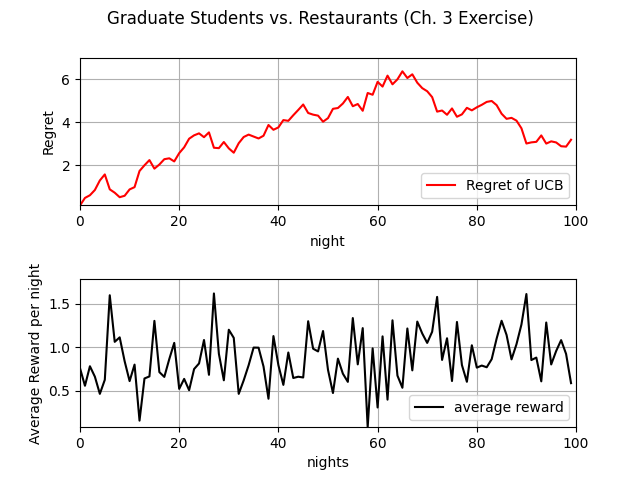
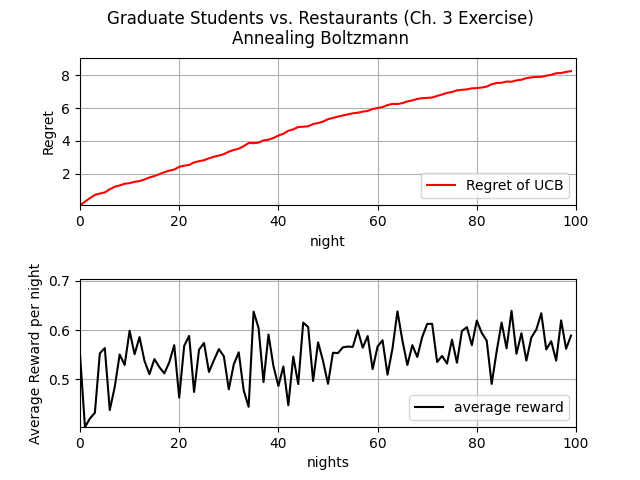
Fixed scatter/average reward plots

diff --git a/restaurant.py b/restaurant.py
@@ -24,10 +24,10 @@ def argmax(arr):
     return arr.index(max(arr))
 
 
-def plot_regret(X, Y, cumulative_optimal_reward, cumulative_reward, average_reward_in_each_round, T, max_regret,
-                min_regret, max_avg_reward, min_avg_reward):
+def plot_regret(X, Y, cumulative_optimal_reward, cumulative_reward, average_reward_in_each_round_1D, T, max_regret,
+                min_regret, max_avg_reward, min_avg_reward, algo_name):
     fig, axs = plt.subplots(2)  # get two figures, top is regret, bottom is average reward in each round
-    fig.suptitle('Graduate Students vs. Restaurants (Ch. 3 Exercise)')
+    fig.suptitle(f'Graduate Students vs. Restaurants (Ch. 3 Exercise)\n{algo_name}')
     fig.subplots_adjust(hspace=0.5)
 
     axs[0].plot(X, Y, color='red', label='Regret of UCB')
@@ -37,7 +37,7 @@ def plot_regret(X, Y, cumulative_optimal_reward, cumulative_reward, average_rewa
     axs[0].set_xlim(0, T)
 
     axs[0].set_ylim(min_regret, 1.1*max_regret)
-    axs[1].plot(X, average_reward_in_each_round, color='black', label='average reward')
+    axs[1].plot(X, average_reward_in_each_round_1D, color='black', label='average reward')
 
     axs[1].set(xlabel='nights', ylabel='Average Reward per night')
     axs[1].grid(True)
@@ -49,29 +49,37 @@ def plot_regret(X, Y, cumulative_optimal_reward, cumulative_reward, average_rewa
     print("Thank you and good-bye.")
 
 
-def plot_graph(timesteps, arms, algorithms, algorithm_rewards, algorithm_cum_rewards, algorithm_arm_selections, max_mu,
-               max_cum_reward):
+def plot_graph(timesteps, arms, algorithms, average_reward_in_each_round, average_cum_rewards, algorithm_arm_selections,
+               algorithm_average_arm_selections, max_mu, max_cum_reward, N, T):
     """Plot a 3-row k-column graph with rolling average, cumulative reward and arm selection scatter plot."""
+
     num_of_algo = len(algorithms)
 
     plt.figure(figsize=(15, 10))
-    for i, algo in enumerate(algorithms):
-        plt.subplot(3, num_of_algo, i + 1)
-        plt.plot(algorithm_rewards[i], label='Average rewards', color='palevioletred', alpha=0.8)
+    for j, algo in enumerate(algorithms):
+        plt.subplot(3, num_of_algo, j + 1)
+        plt.plot(average_reward_in_each_round[j], label='Average rewards', color='palevioletred', alpha=0.8)
         plt.xlabel('Time-step t', fontsize=12)
         plt.ylabel(f'Avg. reward for {algo.get_name()}', fontsize=12)
         plt.title(f"{algo.get_name()}\nRolling Average Reward", fontsize=13)
         plt.axis([0, timesteps, 0, max_mu + 0.1])
 
-        plt.subplot(3, num_of_algo, i + 1 + num_of_algo)
-        plt.plot(algorithm_cum_rewards[i], label='Cumulative reward', color='orange', alpha=0.8)
+        plt.subplot(3, num_of_algo, j + 1 + num_of_algo)
+        # TODO: As average_cum_rewards is not correct, graph values are not increasing
+        plt.plot(average_cum_rewards[j], label='Cumulative reward', color='orange', alpha=0.8)
         plt.xlabel('Time-step t', fontsize=12)
         plt.ylabel(f'Cum. reward for {algo.get_name()}', fontsize=12)
         plt.title(f"Cumulative Reward", fontsize=13)
         plt.axis([0, timesteps, 0, max_cum_reward])
 
-        plt.subplot(3, num_of_algo, i + 1 + 2*num_of_algo)
-        plt.scatter(range(timesteps), algorithm_arm_selections[i], s=2.5, color='salmon', alpha=.9)
+        plt.subplot(3, num_of_algo, j + 1 + 2*num_of_algo)
+        # DONE: Plot scatter plot with transparency (using algorithm_average_arm_selections,
+        # which is length T array composed of smaller length N (no. of arms) arrays that sum up to 1.0)
+
+        cm = plt.cm.get_cmap('YlOrBr')
+        for n in range(N):
+            plt.scatter(range(timesteps), [n + 1]*T, s=2.5, c=algorithm_average_arm_selections[j][n], alpha=.3, cmap=cm)
+
         plt.axis([0, timesteps, 0, len(arms) + 1])
         plt.xlabel('Time-step t', fontsize=12)
         plt.ylabel(f'{algo.get_name()}\'s arm selection', fontsize=12)
@@ -140,31 +148,32 @@ def main():
     algo_exp3 = Exp3(.2, n_arms)
     algo_thompson = ThompsonSampling(n_arms)
 
-    algorithms = [algo_ucb1]
+    algorithms = [algo_ucb1, algo_anneal_epsilon, algo_anneal_softmax]
 
     # semi-global variables
     timesteps = T
-    total_iteration = 5  # outer-loop
+    total_iteration = 200  # outer-loop
 
     # 3D list[algo][t] (array of running avg. rewards for each algo at time-step t of outer loop i) (will eventually become 3D)
-    # algorithm_rewards = [[]*len(algorithms)]
     algorithm_rewards = np.zeros(shape=(len(algorithms), total_iteration, T), dtype=float)
 
     # 3D list[algo][t] (array of cumulative rewards for each algo at time-step t of outer loop i)
-    # algorithm_cum_rewards = [[]*len(algorithms)]
     algorithm_cum_rewards = np.zeros(shape=(len(algorithms), total_iteration, T), dtype=float)
 
-    # 3D list[algo][i][t] (array of arm selections for each algo at time-step t of outer loop i)
-    # algorithm_arm_selections = [[]*len(algorithms)]
+    # 3D list[algo][i][t] (array of arm selections (indices) for each algo at time-step t of outer loop i)
     algorithm_arm_selections = np.zeros(shape=(len(algorithms), total_iteration, T), dtype=float)
 
     reward_round_iteration = np.zeros(shape=(len(algorithms), T), dtype=float)
 
-    arm_selection_count = np.zeros(shape=(len(algorithms), N), dtype=float)
+    arm_selection_count = np.zeros(shape=(len(algorithms), T, N), dtype=float)
 
     average_reward_in_each_round = np.zeros(shape=(len(algorithms), T), dtype=float)
 
-    algorithm_average_arm_selections = np.zeros(shape=(len(algorithms), N), dtype=float)
+    algorithm_average_arm_selections = np.zeros(shape=(len(algorithms), N, T), dtype=float)
+
+    algorithm_cum_rewards_stacked = np.zeros(shape=(len(algorithms), T), dtype=float)
+
+    average_cum_rewards = np.zeros(shape=(len(algorithms), T), dtype=float)
 
     for j, algo in enumerate(algorithms):
 
@@ -173,35 +182,33 @@ def main():
             cum_rewards = np.zeros(shape=(T), dtype=float)
             arm_selections = np.zeros(shape=(T))
             new_avg = 0
-            # TODO: reinitialize algo dynamically based on algo type
-            # algo = get_type(algo).reinit()  # pseudocode
-            algo = UCB1(n_arms)  # reinitialize algorithm (clear previous memory)
+            # DONE: reinitialize algo dynamically based on algo type
+            # FIXME: Problem algo init takes 2 params! (Like exp3)
+            algo.__init__(n_arms)  # reinitialization (prevent regret going down)
             for t in range(timesteps):  # NOTE: 0 based? 1 based?
                 chosen_arm = algo.select_arm()
 
-                # arm_selections.append(chosen_arm + 1)  # convert 0-based index to 1-based
                 arm_selections[t] = chosen_arm + 1
 
                 reward = arms[chosen_arm].draw_reward()
                 reward_round_iteration[j][t] += reward  # This persists over total_iterations
 
-                # DOING: create a list to keep track of arm selected (count)
-                arm_selection_count[j][chosen_arm] += 1
+                # DONE: create a list to keep track of arm selected (count)
+                arm_selection_count[j][t][chosen_arm] += 1
 
-                new_avg = (avg_rewards[-1]*(t - 1) + reward)/t if t > 0 else 0  # new running avg.
+                new_avg = (avg_rewards[-1]*(t - 1) + reward)/t if t > 0 else reward  # new running avg.
 
-                # avg_rewards.append(new_avg)  # records of running averages (up to time t)
-                # cum_rewards.append(new_avg*t)  # records of cumulative rewards (up to time t)
                 avg_rewards[t] = new_avg
-                cum_rewards[t] = new_avg*t
+                cum_rewards[t] = new_avg*t  # TODO: cum_rewards isn't strictly increasing, WHY?
+
+                # doesn't clear memory, persists through total_iteration
+                algorithm_cum_rewards_stacked[j][t] += cum_rewards[t]
+                if j == 0:
+                    print(cum_rewards[t])
 
                 algo.update(chosen_arm, reward)
 
-            # algorithm_arm_selections[j].append(arm_selections)  # NOTE: scatter plots can be overwritten
-            # algorithm_rewards[j].append(avg_rewards)
-            # algorithm_cum_rewards[j].append(cum_rewards)
-
-            algorithm_arm_selections[j][i] = arm_selections
+            algorithm_arm_selections[j][i] = arm_selections  # 1D by itself
             algorithm_rewards[j][i] = avg_rewards
             algorithm_cum_rewards[j][i] = cum_rewards
 
@@ -210,15 +217,14 @@ def main():
         x_axis = np.zeros(timesteps, dtype=int)
         regrets = np.zeros(timesteps, dtype=float)  # regret for each round
 
-        # print("Average reward in each round:", average_reward_in_each_round)
-
         for t in range(timesteps):
             average_reward_in_each_round[j][t] = float(reward_round_iteration[j][t])/float(total_iteration)
+            average_cum_rewards[j][t] = float(algorithm_cum_rewards_stacked[j][t])/float(total_iteration)
 
-        print(f">>>>>> {arm_selection_count}")
-        for arm_index in range(N):
-            algorithm_average_arm_selections[j][arm_index] = float(
-                arm_selection_count[j][arm_index])/float(total_iteration)
+        for t in range(T):
+            for arm_index in range(N):
+                algorithm_average_arm_selections[j][arm_index][t] = float(
+                    arm_selection_count[j][t][arm_index])/float(total_iteration)
 
         for t in range(timesteps):
             x_axis[t] = t
@@ -226,35 +232,19 @@ def main():
             cumulative_reward += average_reward_in_each_round[j][t]
             regrets[t] = max(0, cumulative_optimal_reward - cumulative_reward)
 
-        # TODO: Redefine plot_regret() to handle 3D
-        plot_regret(x_axis, regrets, cumulative_optimal_reward, cumulative_reward, average_reward_in_each_round,
-                    timesteps, max(regrets), min(regrets), max(average_reward_in_each_round),
-                    min(average_reward_in_each_round))
-        print(f"The average regret for {algo.get_name()} is {cumulative_optimal_reward - cumulative_reward}")
+        # DONE: Redefine plot_regret() to handle 3D
+        # plot_regret(x_axis, regrets, cumulative_optimal_reward, cumulative_reward, average_reward_in_each_round[j],
+        #             timesteps, max(regrets), min(regrets), max(average_reward_in_each_round[j]),
+        #             min(average_reward_in_each_round[j]), algo.get_name())
+        # print(f"The average regret for {algo.get_name()} is {cumulative_optimal_reward - cumulative_reward}")
 
     max_cum_reward = 0
     for j in range(len(algorithms)):
         for i in range(total_iteration):
             max_cum_reward = max(max_cum_reward, algorithm_cum_rewards[j][i][-1])
 
-    # Compute average rewards for each iteration, for each algorithm
-    # average_reward_in_each_round = np.zeros(shape=(len(algorithms), T), dtype=float)
-    # Calculate the values for one good 1000 rounds
-    # Squash 200X1000 -> 1X1000
-    # for j, algo in enumerate(algorithms):
-    #     for t in range(timesteps):
-    #         average_reward_in_each_round[j][t] = float(reward_round_iteration[j][t])/float(total_iteration)
-
-    # Squash 3D algorithm_arm_selections from [algo][i][t] -> [algo][t]
-    # 2D algorithm_average_arm_selections[j][t] -> for algorithm j, timestep t: [.2, .1, .5, .2] <- count of each arm / total_iterations
-    # algorithm_average_arm_selections = np.zeros(shape=(len(algorithms), T), dtype=float)
-    # for j, algo in enumerate(algorithms):
-    #     for t in range(timesteps):
-    #         algorithm_average_arm_selections[j][t] = float(arm_selection_count[j][t])/float(total_iteration)
-
-    # TODO: Redefine plot_graph() to handle 3D
-    # plot_graph(timesteps, arms, algorithms, algorithm_rewards, algorithm_cum_rewards, algorithm_average_arm_selections,
-    #            max_mu, max_cum_reward)
+    plot_graph(timesteps, arms, algorithms, average_reward_in_each_round, average_cum_rewards, algorithm_arm_selections,
+               algorithm_average_arm_selections, max_mu, max_cum_reward, N, T)
     # plot_cum_rewards(algorithms, algorithm_cum_rewards, timesteps, max_cum_reward)
 
 

diff --git a/test_plot.py b/test_plot.py
@@ -1,14 +1,31 @@
 import numpy as np
 import matplotlib.pyplot as plt
+import random
 
 # Fixing random state for reproducibility
 np.random.seed(19680801)
 
-N = 50
-x = np.random.rand(N)
-y = np.random.rand(N)
+T = 100  # no. of nights
+N = 3  # no. of arms
+
+x = np.random.rand(T)
+y = np.zeros(shape=(N, T), dtype=float)
+sizes = np.random.rand(T)
+print(sizes[:10])
+for i in range(len(sizes)):
+    sizes[i] *= 500
+print(sizes[:10])
+
+for i in range(N):
+    for j in range(T):
+        y[i][j] = random.randint(0, 10)
+
 colors = np.random.rand(N)
 area = (100*np.random.rand(N))**2  # 0 to 15 point radii
-print(len(area))
-plt.scatter(x, y, s=50, c='red', alpha=.5)
+
+for i in range(N):  # stack 3 times
+    print(len(x))
+    print(len(y))
+    plt.scatter(x, [i]*T, s=sizes, c='red', alpha=.5)
+
 plt.show()
